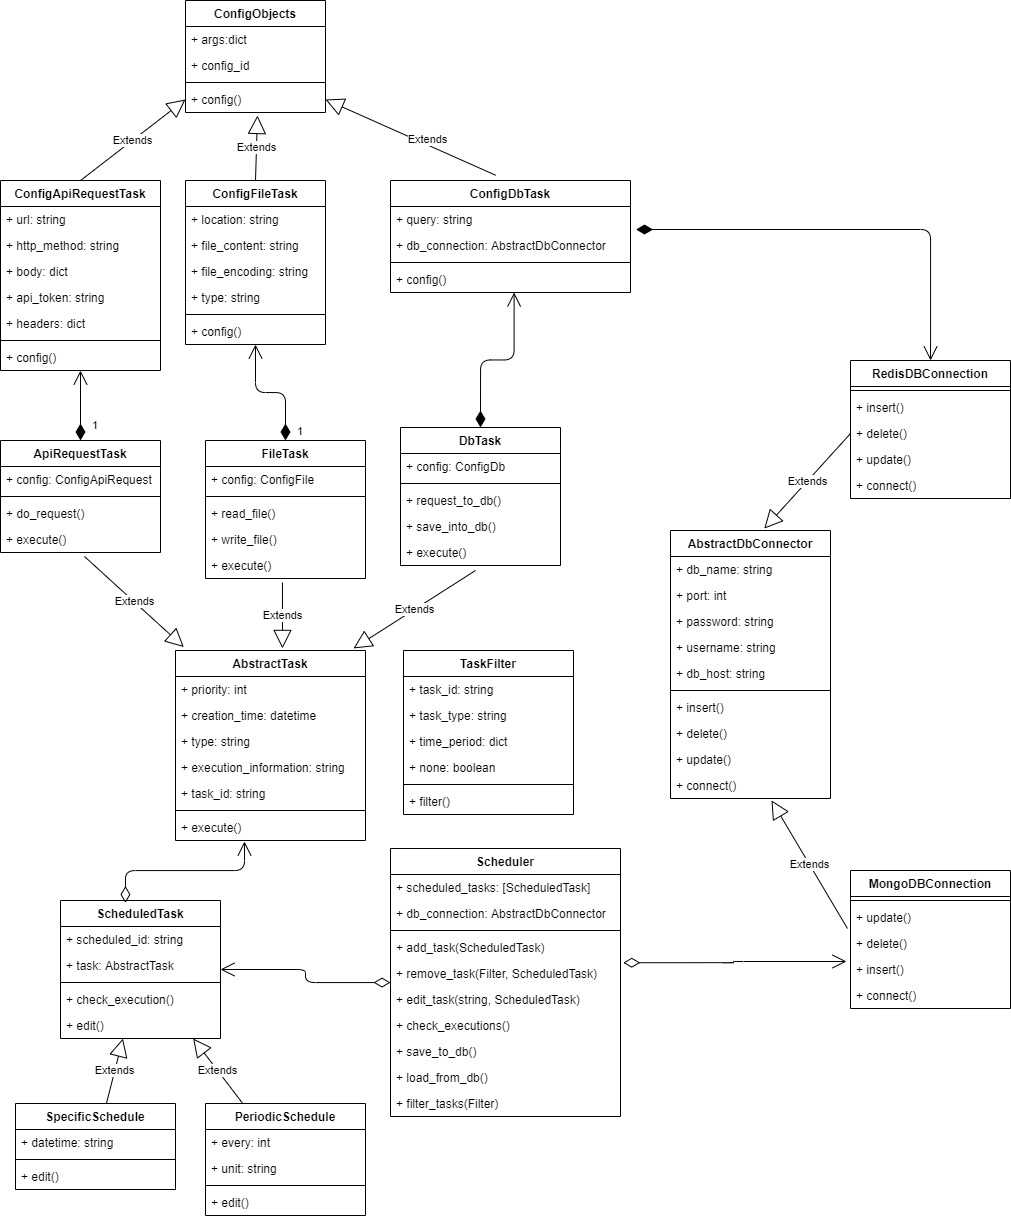
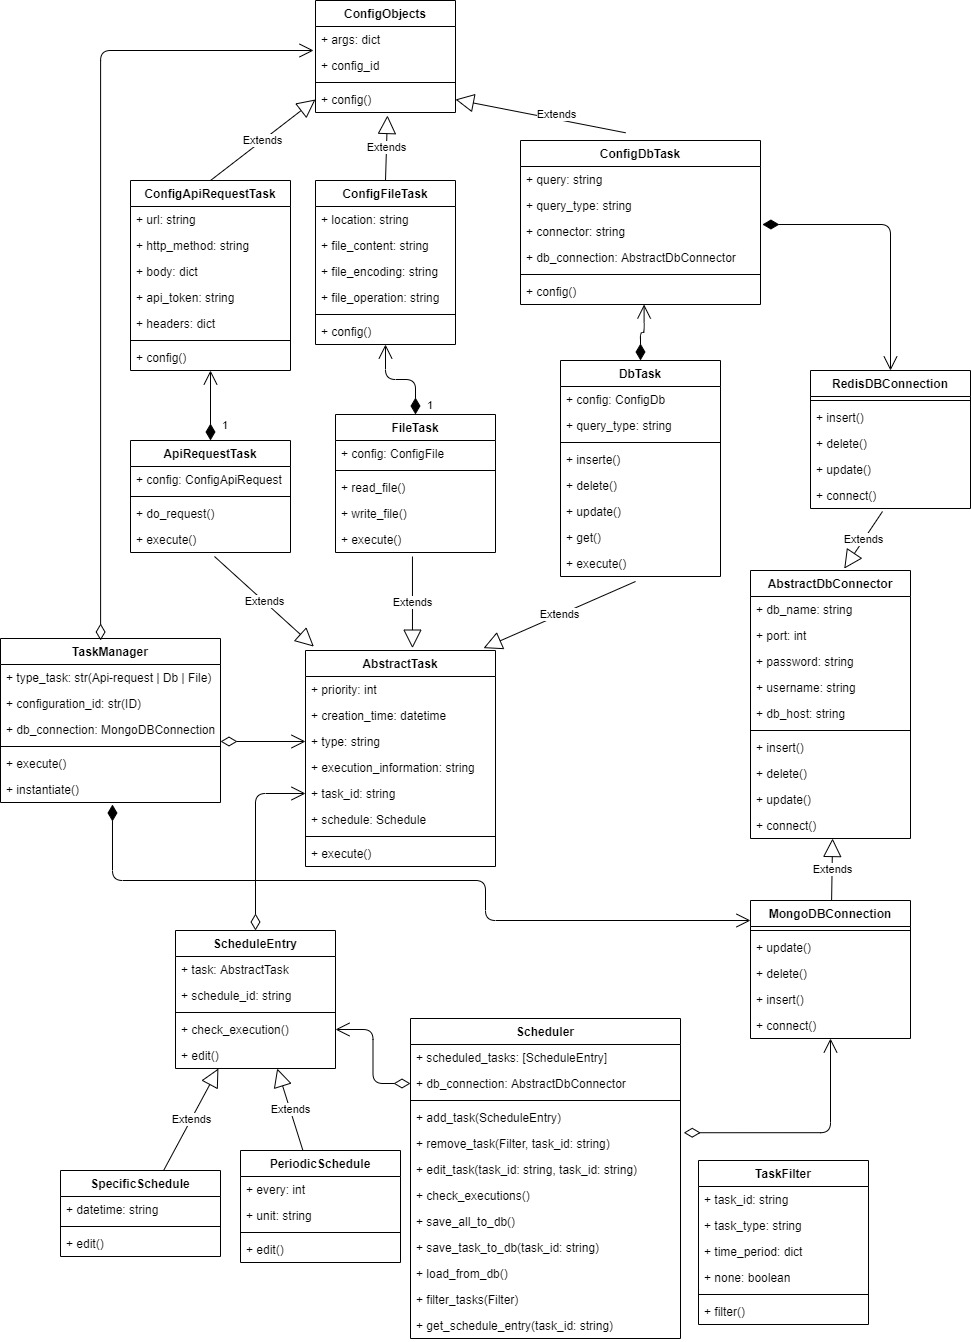
Added requirements and update the class diagram

diff --git a/README.md b/README.md
@@ -13,10 +13,25 @@ virtualenv --python=python3
 pip install -r requirements.txt
 pip install -r requirements.dev.txt
 ```
+### Steps
+
+ - First: execute the ```task_scheduler\endpoints\config_init.py``` script
+ - Second: execute ```task_scheduler\endpoints\endpoint.py``` script 
+ - Third: You can use POSTMAN to interact with the endpoint -> ```http://localhost:5000/api/v1/run```
+
+### Request POST example
+
+```
+{
+"type_task": "File",
+"configuration_id": "608b089952edc4196103c32c"
+}
+```
 
 ## Class diagram
-## TEST1
+## Update
 
 [XML](docs/task-manager.xml)
 
 ![diagram](docs/task-manager.jpg)
+
